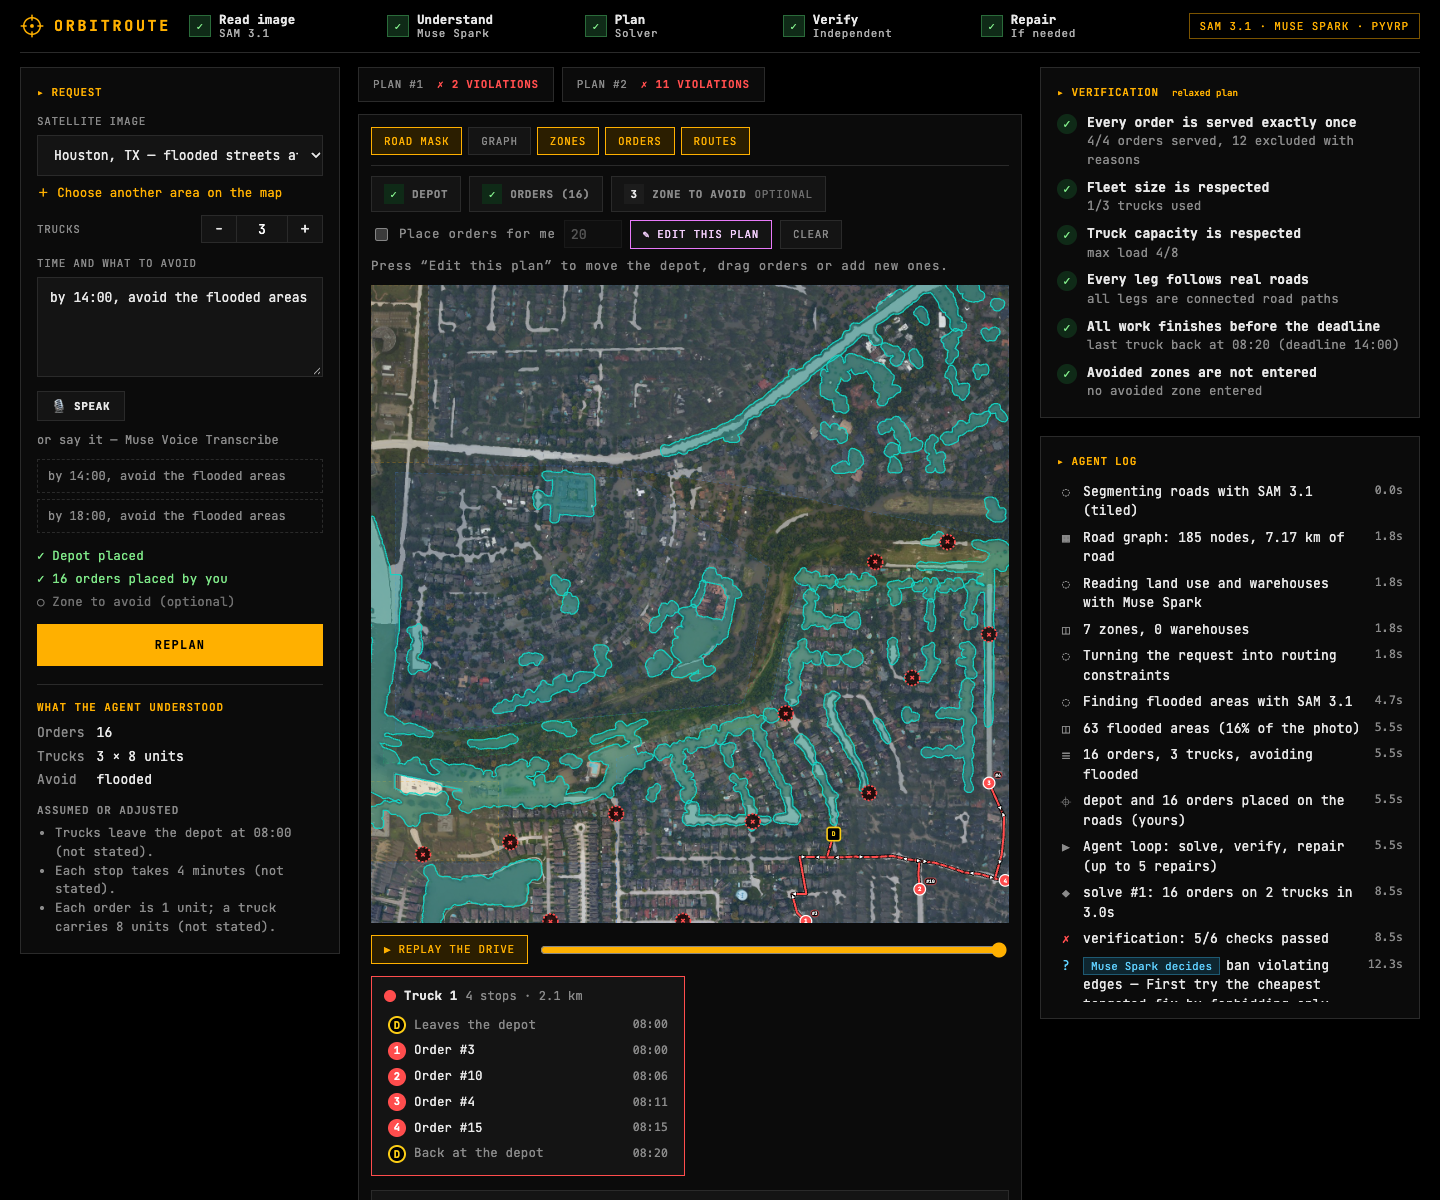
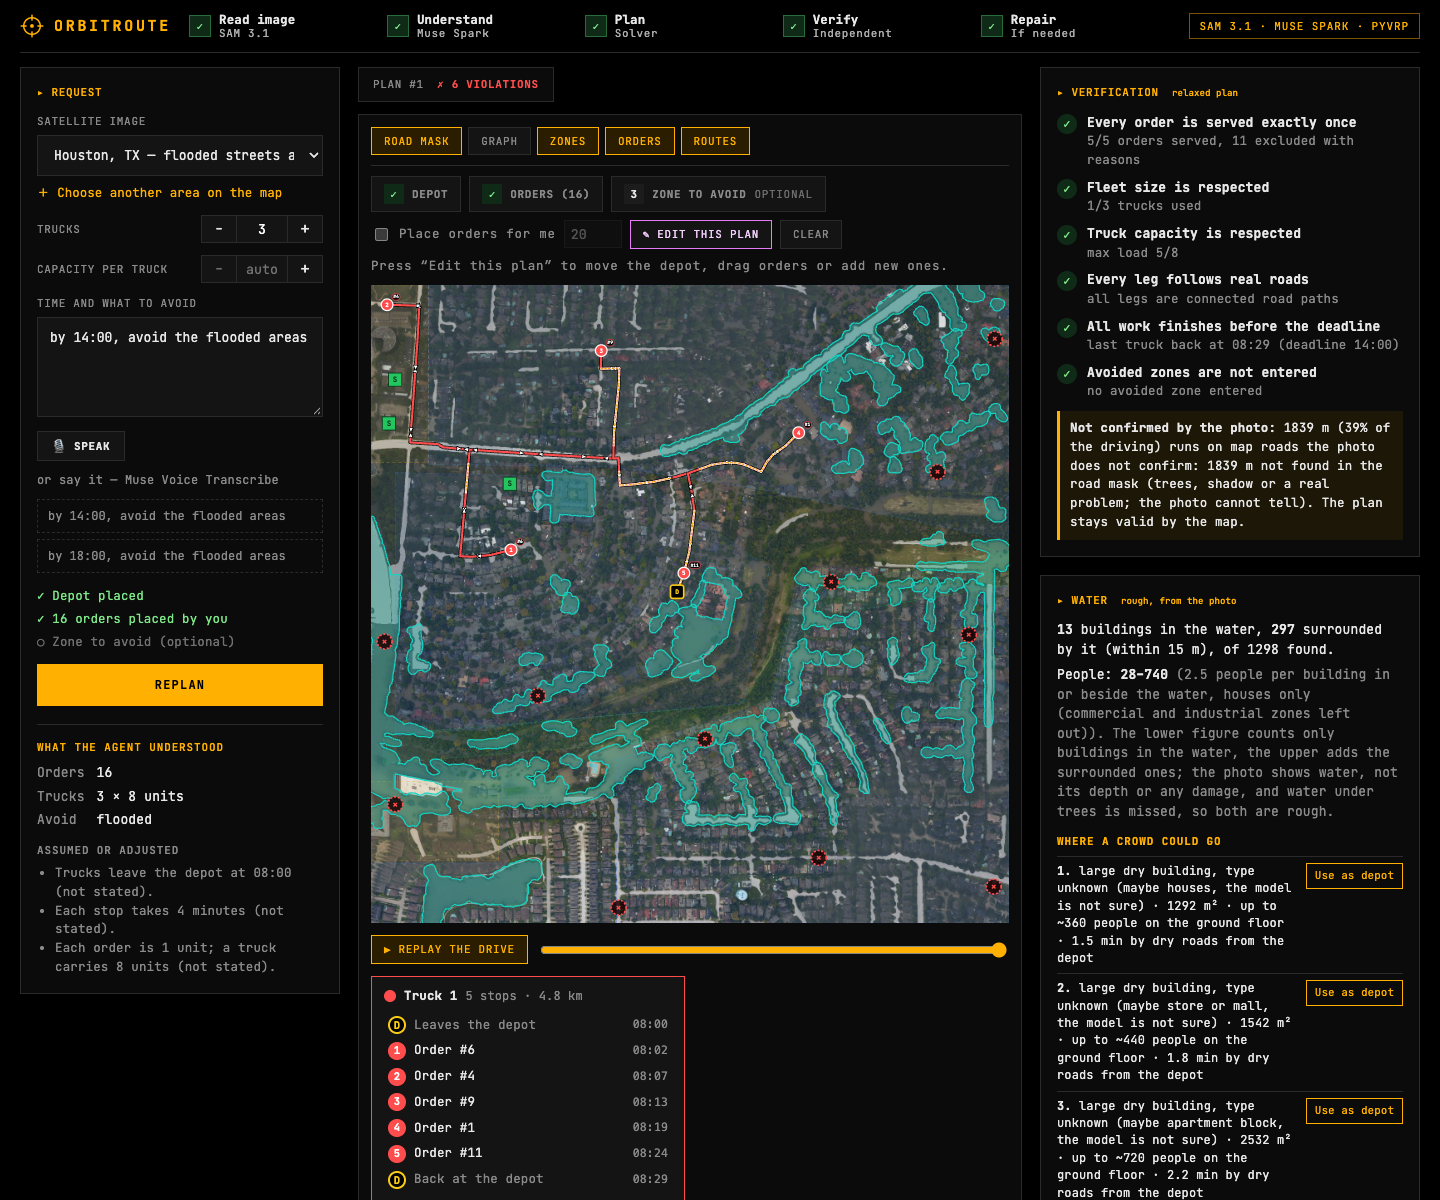
Refresh the README images and text for the map-based roads
The images are captured again on the current interface (hero GIF and result on the
Memphis photo, where the agent repairs a plan; the flooded photos with the new
notes; a new picture of the Water card), the architecture diagram shows the map
roads, the photo evidence, the model's second look and the water card, and the
README intro and captions say that the roads come from OpenStreetMap and the photo
is evidence. The capture scripts learn a sample argument, stay away from the photo
border, and capture the water card.

diff --git a/README.md b/README.md
@@ -8,20 +8,20 @@ Built solo for the Meta Global AI Developer Hackathon (track: Push the Frontier,
 
 ## The problem
 
-Routing engines assume a map. Where the map is missing or out of date (a new district, a place a storm just changed), the road network has to be read from an aerial photo, and a delivery plan built on top of it can quietly break the rules it was given: it drives through the zone it was told to avoid, finishes after the deadline, overloads a truck. Nobody notices until the trucks are out.
+Routing engines assume a map, and a delivery plan built on a map can quietly break the rules it was given: it drives through the zone it was told to avoid, finishes after the deadline, overloads a truck. Nobody notices until the trucks are out. And the map is only what was mapped: it knows nothing of the dirt road, of the street a storm just put under water, of the district that is not on it yet.
 
-OrbitRoute reads the roads from the photo, turns a plain-English request into constraints, plans the routes, and then **checks its own plan with a verifier that does not trust the solver or the language model**. If the plan breaks a rule it repairs it and solves again; if the request cannot be met it says so and offers fixes that were each solved and verified.
+OrbitRoute takes the roads from OpenStreetMap and uses an aerial photo as evidence of what is still there (which roads the photo confirms, where water stands, which large dry buildings a crowd could go to; with no map to use it reads the roads from the photo), turns a plain-English request into constraints, plans the routes, and then **checks its own plan with a verifier that does not trust the solver or the language model**. If the plan breaks a rule it repairs it and solves again; if the request cannot be met it says so and offers fixes that were each solved and verified.
 
 ## Navigators know the map. A flood changes it.
 
-A routing engine knows the roads as they were before the water came. An aerial photo taken during the flood shows what is passable now. OrbitRoute's disaster samples are real NOAA Emergency Response Imagery of Hurricane Harvey over west Houston (30 August 2017, public domain): ask it to "avoid the flooded areas" and SAM 3.1 finds the standing water on the photo, the water becomes zones the trucks must not enter, and the same verifier checks the plan against them.
+A routing engine knows the roads as they were before the water came. An aerial photo taken during the flood shows what is passable now: the roads come from the map, and the photo says where the water stands. OrbitRoute's disaster samples are real NOAA Emergency Response Imagery of Hurricane Harvey over west Houston (30 August 2017, public domain): ask it to "avoid the flooded areas" and SAM 3.1 finds the standing water on the photo, the water becomes zones the trucks must not enter, and the same verifier checks the plan against them.
 
-![A relief plan on the flooded subdivision: teal zones are flood water found by SAM 3.1, the routes stay on the dry ring road, and the verifier confirms no zone is entered](docs/flood-plan.png)
+![A relief plan on the flooded subdivision: teal zones are flood water found by SAM 3.1, the routes run on OpenStreetMap roads outside the water, and the verifier confirms no zone is entered; the note says how much of the driving the photo does not confirm, and where Muse Spark saw standing water on a stretch with no way round](docs/flood-plan.png)
 
-- **The map is wrong where it matters.** On the second photo, **34% of the named streets in OpenStreetMap (9.1 of 27 km) lie under water** and the road graph reads only 12% of them as road, because the water hides them. A router that trusts the map would send trucks down all of them; the water zones keep the agent out (`eval/FLOOD.md`). On the first photo it is 7% of the mapped streets and service roads (2.0 of 28.5 km).
-- **When the water cuts orders off, the agent says so.** With orders clicked freely over the flooded photos, the plain solver's first plan crossed the water in **8 of 8** scenarios; the agent caught all 8. In the one below, 12 of 16 orders cannot be reached without entering the water, so it offers a verified plan for the 4 that can be served now (the cut-off ones are marked with × and listed), next to the option of driving through the water, which it labels as exactly that.
+- **The map is wrong where it matters.** On the second photo, **34% of the named streets in OpenStreetMap (9.1 of 27 km) lie under water** and the road graph read from the photo alone found only 12% of them as road, because the water hides them. A router that trusts the map would send trucks down all of them; the water zones keep the agent out (`eval/FLOOD.md`, measured on the photo-only graph). On the first photo it is 7% of the mapped streets and service roads (2.0 of 28.5 km).
+- **When the water cuts orders off, the agent says so.** With orders clicked freely over the flooded photos, the plain solver's first plan crossed the water in **8 of 8** scenarios; the agent caught all 8. In the one below, 11 of 16 orders cannot be reached without entering the water, so it offers a verified plan for the 5 that can be served now (the cut-off ones are marked with × and listed), next to the option of driving through the water, which it labels as exactly that.
 
-![Sixteen freely placed orders on the flooded streets: four can be reached and are served in a verified plan, twelve are marked as cut off](docs/flood-cutoff.png)
+![Sixteen freely placed orders on the flooded streets: five can be reached and are served in a verified plan, eleven are marked as cut off; the water card and the possible shelters are on the right](docs/flood-cutoff.png)
 
 Limits, stated plainly: NOAA says this imagery is not intended for navigation, so this is a demonstration, not an emergency tool; SAM sees standing water, not its depth, and muddy street water under trees is the hardest case (some flooded streets are missed); and the two photos are two 1.5 km tiles.
 
@@ -54,7 +54,11 @@ Everything below is produced by scripts in `scripts/` and written to `eval/`; no
 
 **Dirt tracks.** A reviewer's first complaint was that reading roads from an aerial photo misses dirt roads. On three 1.5 km forest squares whose mapped roads are almost all `highway=track` (Medicine Bow NF in Wyoming, Apalachicola NF in Florida, Sam Houston NF in Texas; `eval/TRACKS.md`, `scripts/eval_tracks.py`, about $1.35 of SAM) the graph read from the photo reaches **3%, 69% and 0%** of the mapped track (0.1, 3.1 and 0.0 km of road against 4.6, 4.3 and 4.8 km on the map). On two of the three squares not a single one of 8 random scenarios could be planned on the photo graph (no road to plan on); on the map graph 2, 5 and 4 of 8 ended verified. The map graph is not a cure for forest either: only 28-32% of the points of such a square lie within 80 m of a mapped road, because the network there is sparse, and 6 of the 9 longest unconfirmed stretches were shown to Muse Spark as "hidden by trees". Looking at the crops, the two it called a clear road are visible dirt roads, the six it could not tell are dense forest, and the one it called "no road visible" crosses a clearing (a judgement call). The squares were picked because the map has tracks there, and a mapped track may be overgrown or gone, which the photo cannot always tell.
 
-**Who is exposed, and where could a crowd go?** When a photo shows standing water, the same buildings and water SAM already finds give a rough reading (`perception/exposure.py`). Buildings in the water and buildings within 15 m of it are counted, and from them a range of people (2.5 per building, the US household size; commercial and industrial zones left out): on the first Houston photo 13 buildings in the water and 297 surrounded by it, about 28-740 people, on the second 1 and 204, about 3-513. It is an order of magnitude, not a count: the photo shows water, not its depth inside a house, and not damage (nothing here claims destroyed buildings), and water under trees is missed. Large compact buildings (1,200-40,000 m2) that are dry and not surrounded by water, and that the trucks can reach from the depot on roads that are not under water, are listed as places to look at first, with the time by road and what they could hold on the ground floor at 3.5 m2 per person (the Sphere minimum). Muse Spark looks at each of the nearest ones and says what it is: the first photo's candidates came back as houses and flats (taken out of the list), one possible store it was only 35% sure of, and nothing it could name, so they are offered as "type unknown" with its guess; the second photo has no candidate left (one house, three blocks of flats). An OpenStreetMap school, hospital or store at the spot would name a building, but these two photos have none. A building is never said to be open, safe or to have room. "Use as depot" puts the depot there and the agent plans again. Population grids such as Kontur (400 m cells) and the Microsoft building footprints were looked at and left out: a 1.5 km square holds about ten Kontur cells, which adds little to the building count, and the buildings SAM finds are the ones standing in the photo.
+**Who is exposed, and where could a crowd go?**
+
+![The first Houston photo after a one-click run: the Water card says 13 buildings in the water and 297 surrounded by it, about 28-740 people (rough), and lists three large dry buildings as places to look at first, each with the time by dry roads from the depot and a Use as depot button](docs/flood-water.png)
+
+When a photo shows standing water, the same buildings and water SAM already finds give a rough reading (`perception/exposure.py`). Buildings in the water and buildings within 15 m of it are counted, and from them a range of people (2.5 per building, the US household size; commercial and industrial zones left out): on the first Houston photo 13 buildings in the water and 297 surrounded by it, about 28-740 people, on the second 1 and 204, about 3-513. It is an order of magnitude, not a count: the photo shows water, not its depth inside a house, and not damage (nothing here claims destroyed buildings), and water under trees is missed. Large compact buildings (1,200-40,000 m2) that are dry and not surrounded by water, and that the trucks can reach from the depot on roads that are not under water, are listed as places to look at first, with the time by road and what they could hold on the ground floor at 3.5 m2 per person (the Sphere minimum). Muse Spark looks at each of the nearest ones and says what it is: the first photo's candidates came back as houses and flats (taken out of the list), one possible store it was only 35% sure of, and nothing it could name, so they are offered as "type unknown" with its guess; the second photo has no candidate left (one house, three blocks of flats). An OpenStreetMap school, hospital or store at the spot would name a building, but these two photos have none. A building is never said to be open, safe or to have room. "Use as depot" puts the depot there and the agent plans again. Population grids such as Kontur (400 m cells) and the Microsoft building footprints were looked at and left out: a 1.5 km square holds about ten Kontur cells, which adds little to the building count, and the buildings SAM finds are the ones standing in the photo.
 
 **How good are the roads, read from the photo alone?** The graph SAM produces was compared with OpenStreetMap on both bundled 1.5 km tiles (`eval/ROADS.md`; OSM is only a yardstick here, © OpenStreetMap contributors, ODbL). Within 15 m, **86-91% of the graph lies on a real mapped road** and it covers **73-86% of the named streets** (48-53% when every service road is counted; parking aisles and driveways are mostly invisible at this resolution). One 6x6 tiling found 66% of the named streets; no other SAM prompt ("street", "driveway", "alley", "paved road") added anything, while uniting a 6x6 and a 12x12 tiling reached 77% at the same precision.
 
@@ -78,7 +82,7 @@ Everything below is produced by scripts in `scripts/` and written to `eval/`; no
 
 ## Try it
 
-![The finished run: plan 1 had one violation, plan 2 is verified; the six checks and the agent log are on the right](docs/result.png)
+![The finished run on the Memphis photo: plan 1 had two violations, plan 2 is verified; the six checks, the note on what the photo does not confirm and the agent log are on the right](docs/result.png)
 
 Pick a bundled sample (Columbus, Memphis, or the two flooded Houston photos) or any 1.5 km square in the United States on the map, then either press **Try it with 20 random orders** or place the depot, the orders and a zone to avoid by clicking. Set the number of trucks and, if you know it, the capacity per truck, type or speak what to avoid, and plan. Undo takes back the last point of the step you are on; a drawn zone can be redrawn. Afterwards you can replay the drive truck by truck, drag any point and replan, and open any plan the agent tried to see what failed and why.
 
